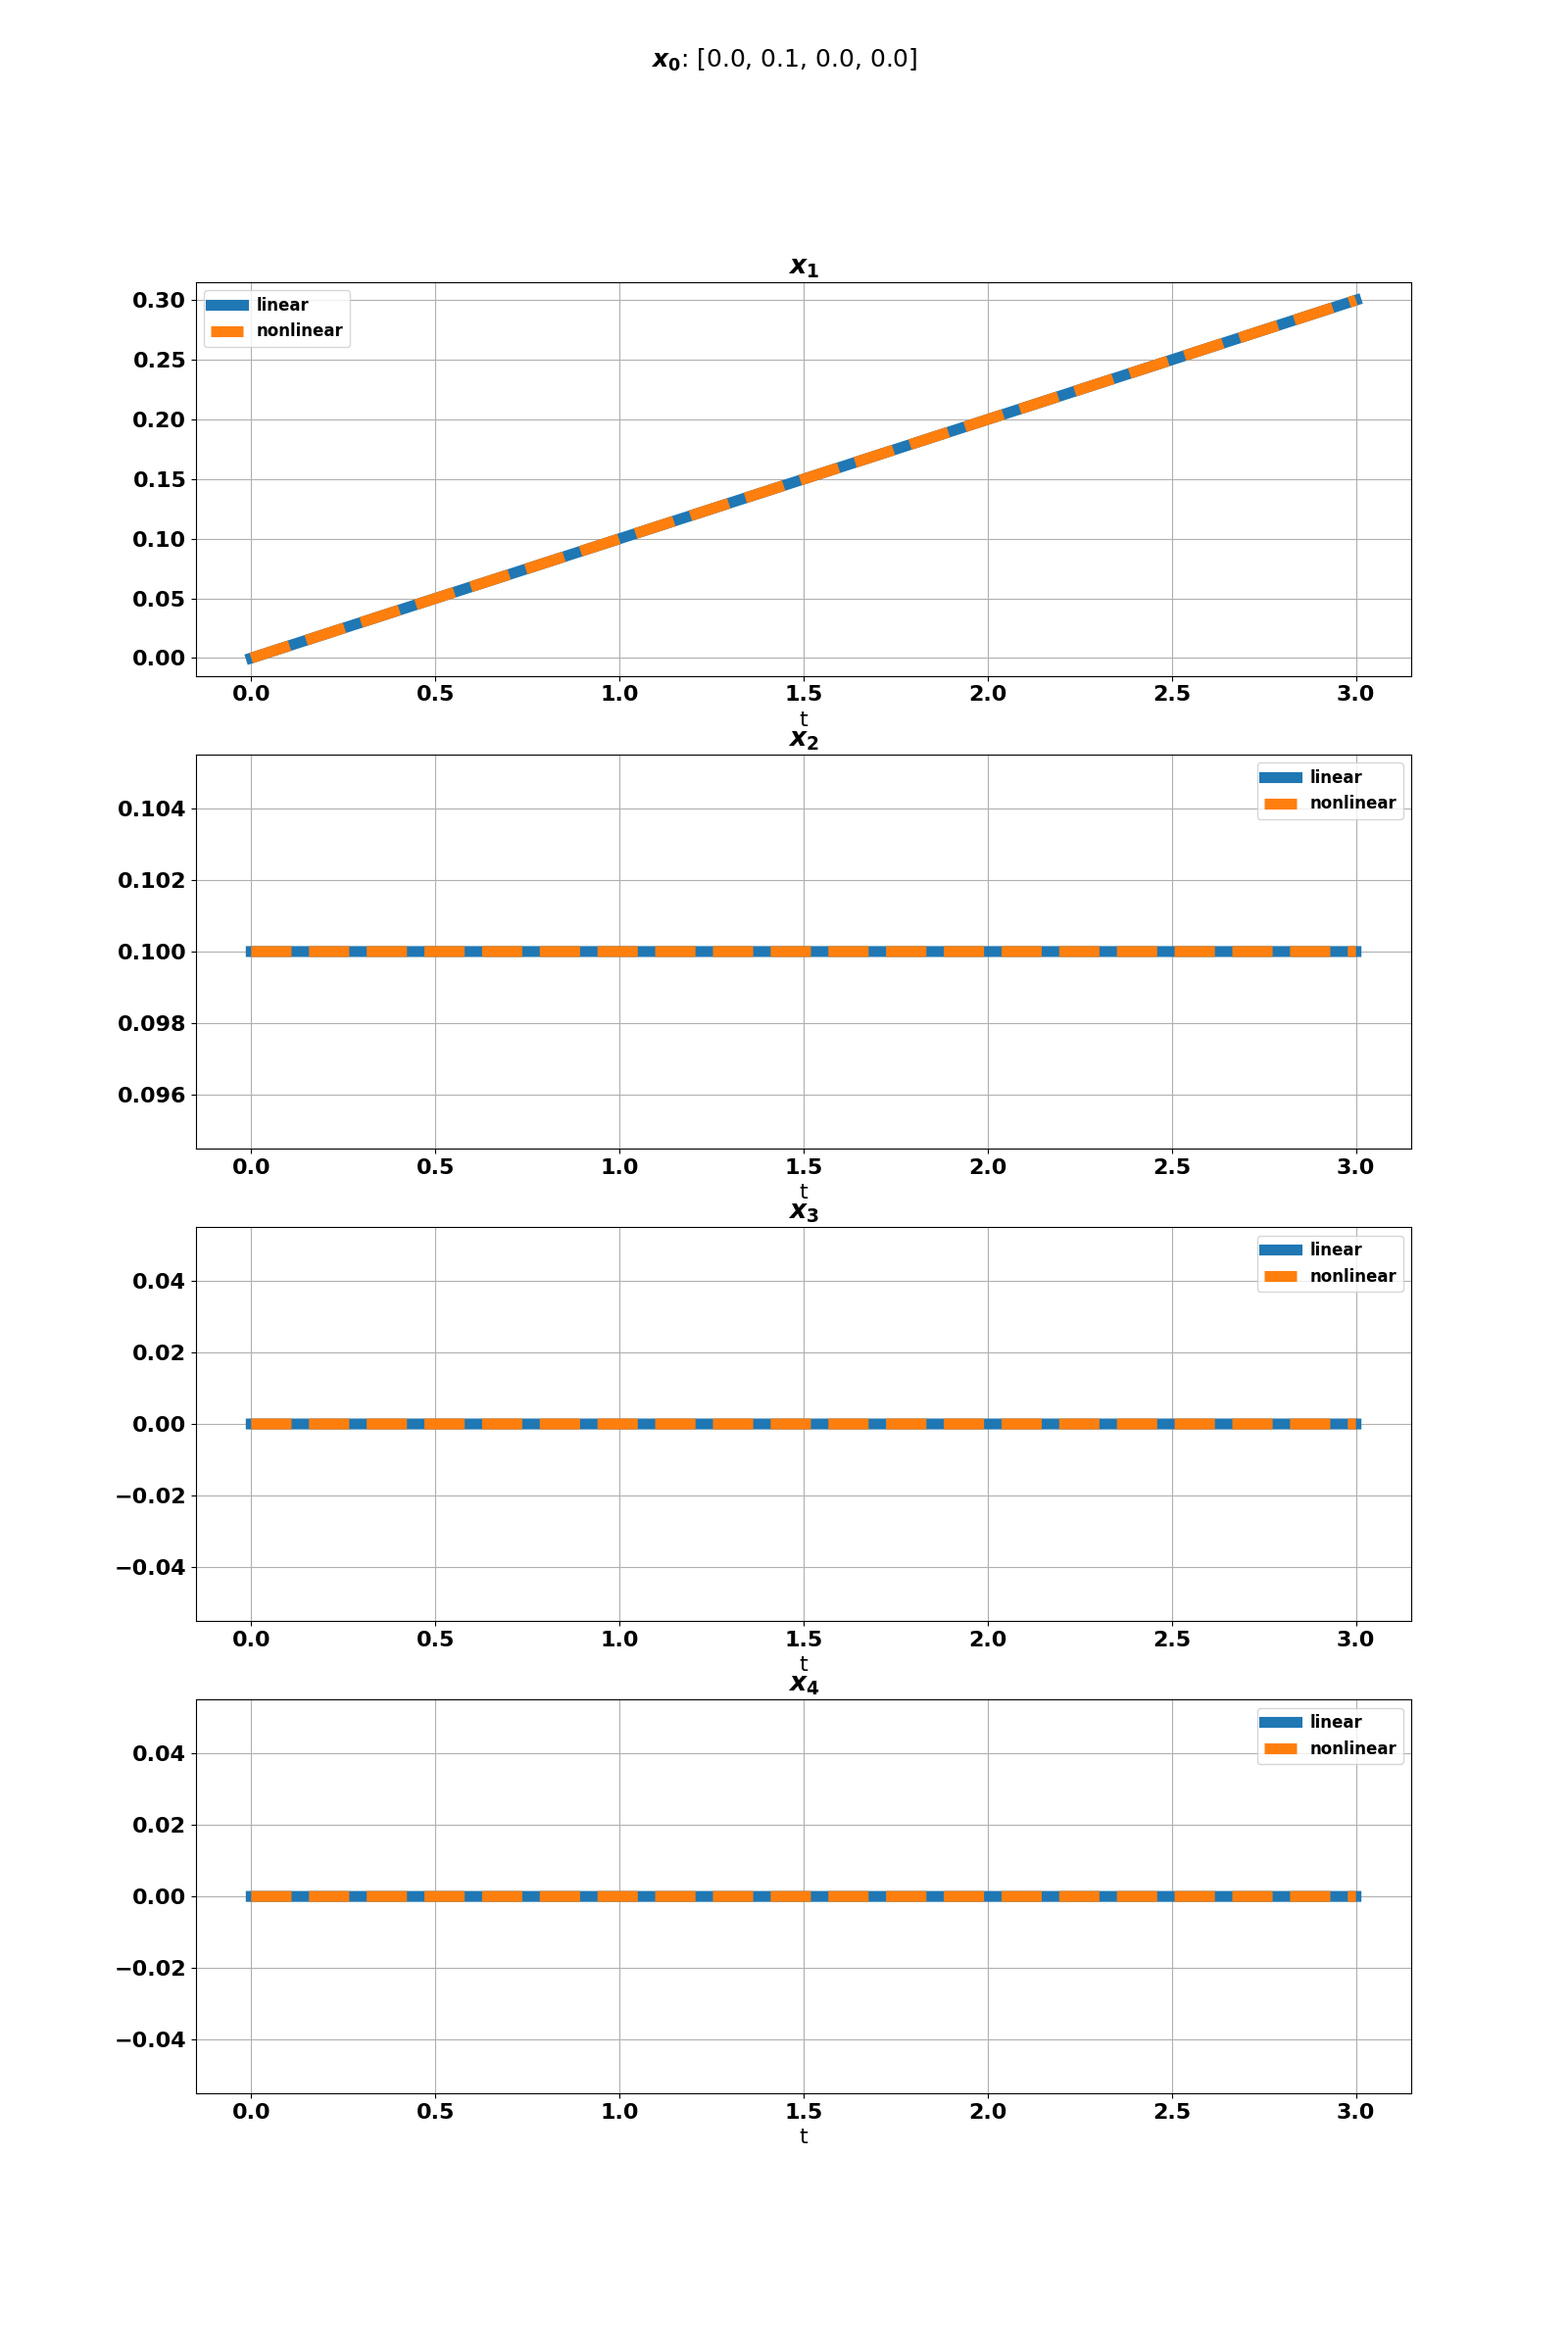
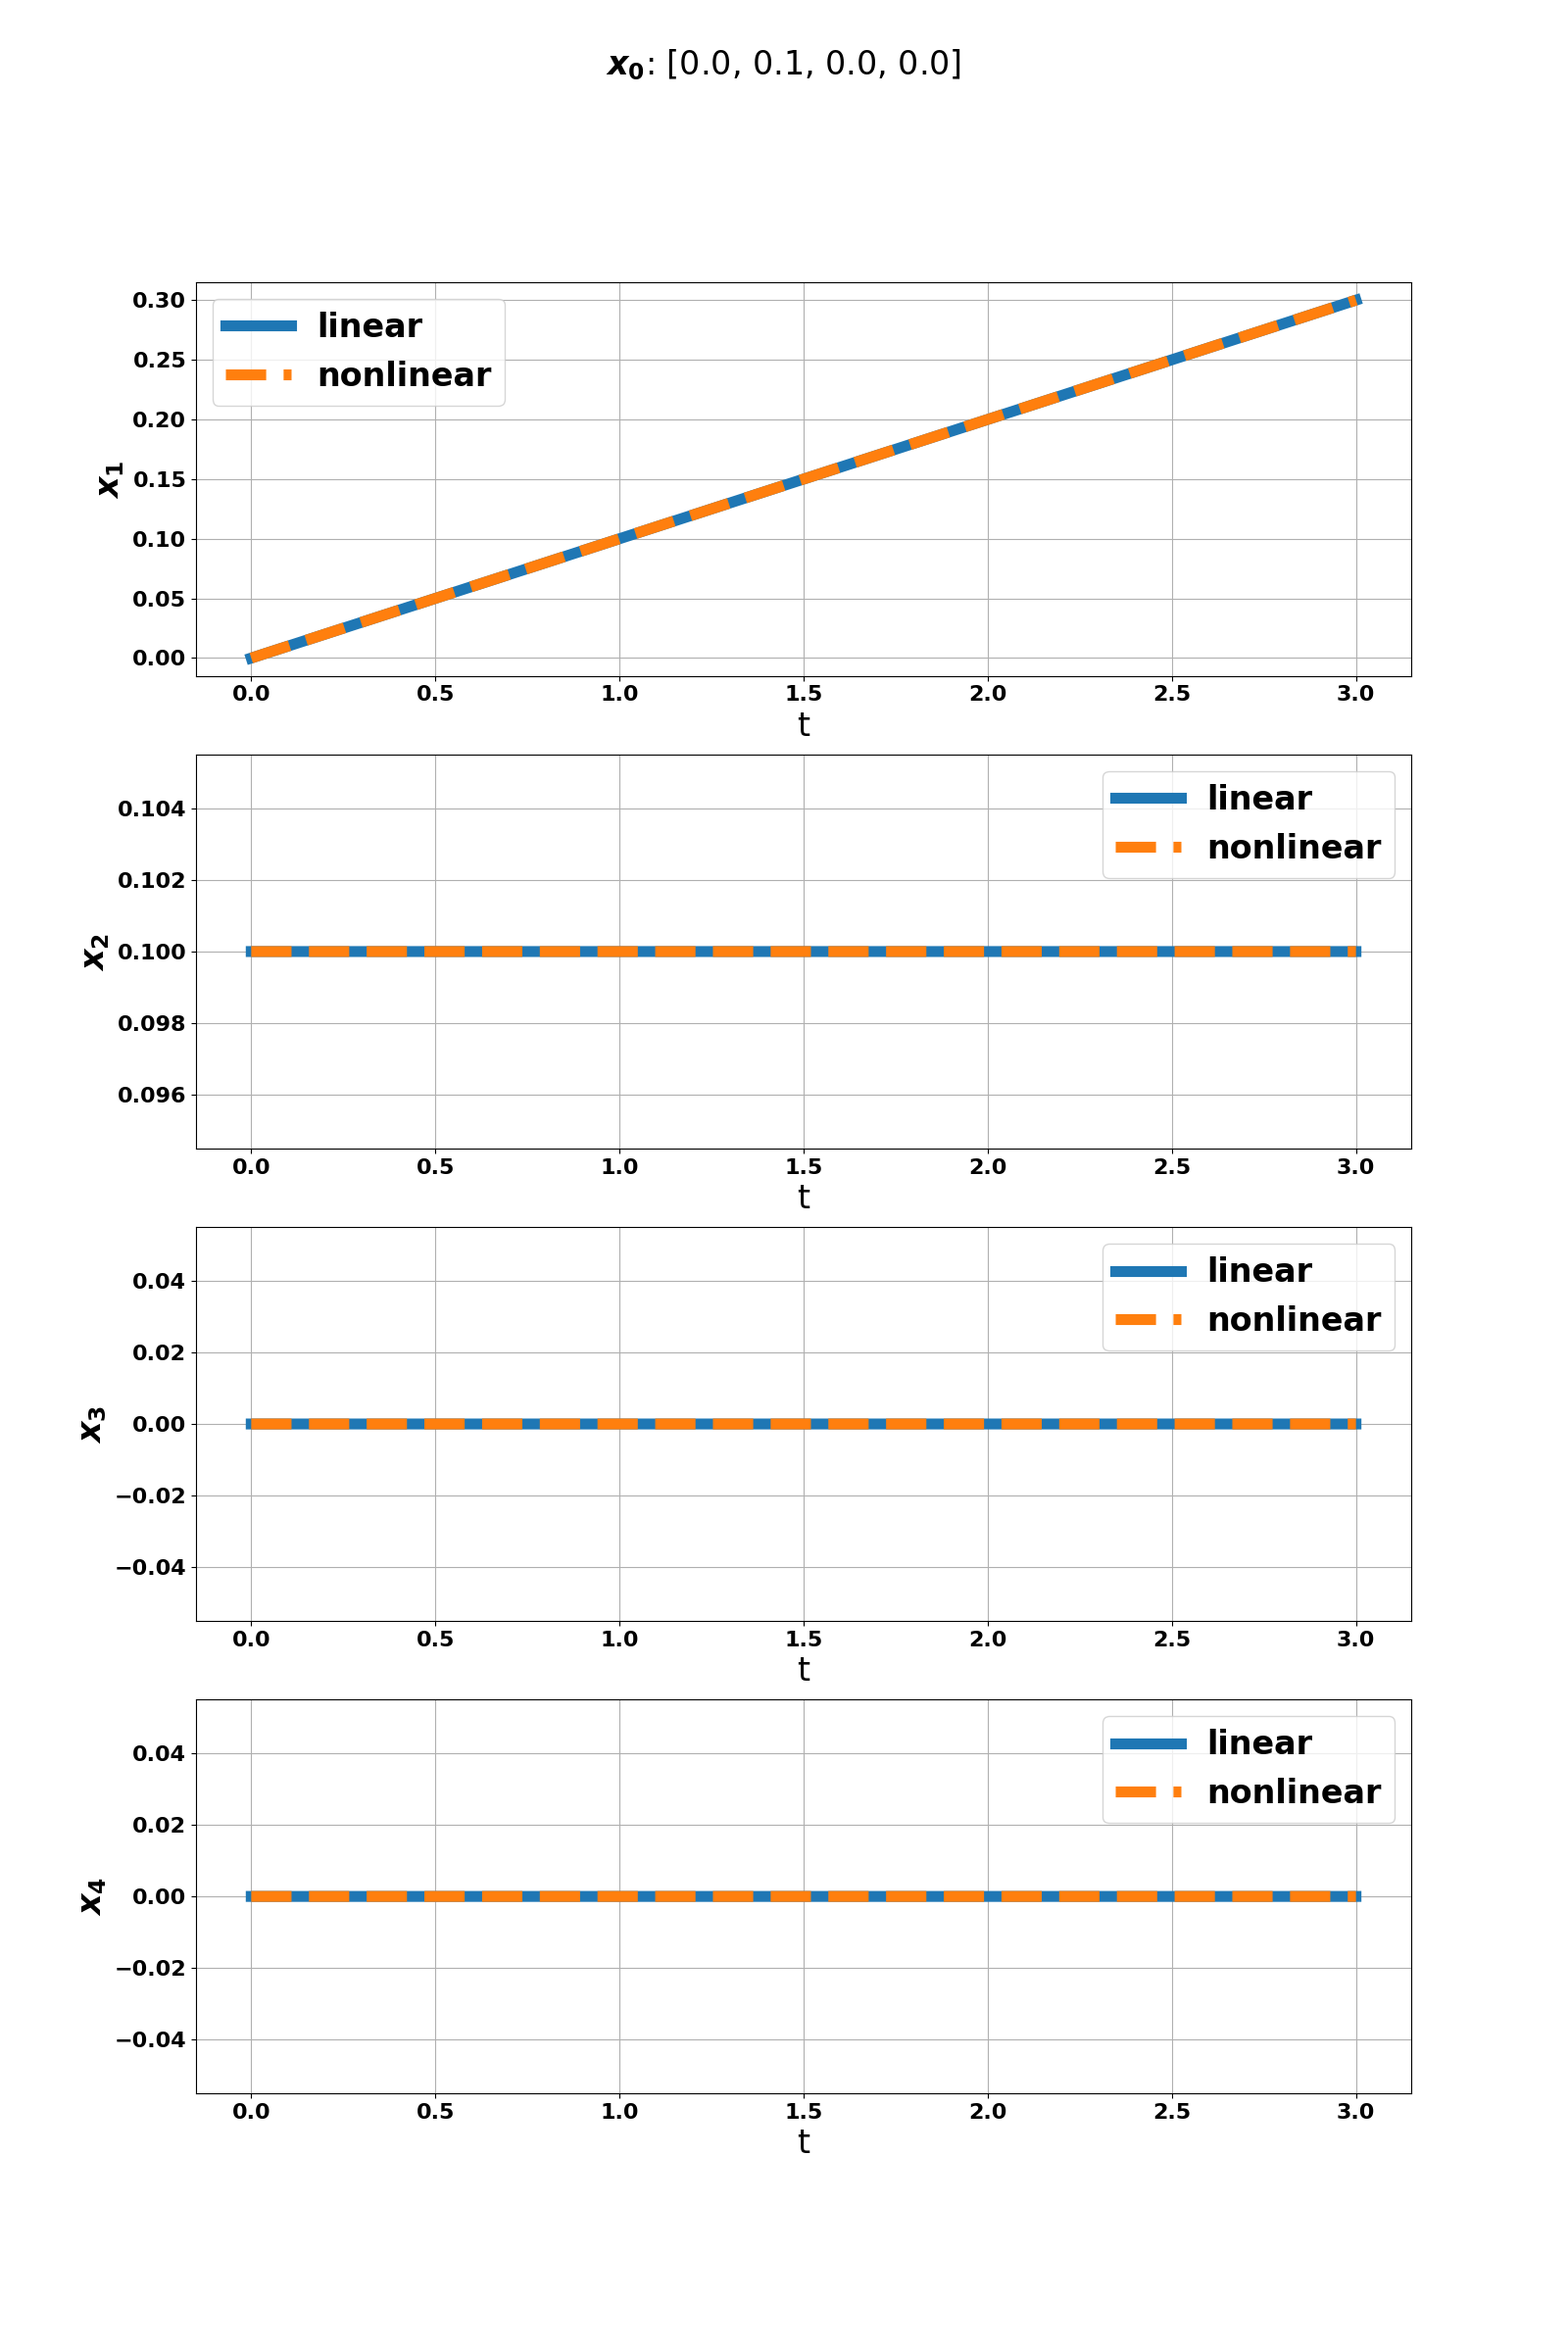
kurs

diff --git a/kurs/chapter2.py b/kurs/chapter2.py
@@ -86,13 +86,13 @@ def task2(A, B, C, D):
 def draw_linear_response(ss, x0, time):
     response = control.initial_response(ss, T=time, X0=x0)
     fig, ax = plt.subplots(4, figsize=(16, 24))
-    fig.suptitle(f"$x_0$: {x0}", fontsize=18)
+    fig.suptitle(f"$x_0$: {x0}", fontsize=24)
     for i in range(4):
-        ax[i].set_title(f"$x_{i+1}$")
         ax[i].plot(time, response.states[i], linewidth=8, label="linear")
-        ax[i].set_xlabel('t')
+        ax[i].set_ylabel(f"$x_{i + 1}$", fontsize=24)
+        ax[i].set_xlabel('t', fontsize=24)
         ax[i].grid()
-        ax[i].legend(fontsize=12)
+        ax[i].legend(fontsize=24)
 
     plt.savefig(f"chapter2_reports/task3_{'_'.join([str(x) for x in x0])}.png")
 
@@ -136,16 +136,16 @@ def draw_and_compare_nonlinear_response(ss_lin, ss_nonlin, x0, time):
     resp_nonlin = control.input_output_response(ss_nonlin, T=time, X0=x0, U=np.zeros((2, len(time))))
 
     fig, ax = plt.subplots(4, figsize=(16, 24))
-    fig.suptitle(f"$x_0$: {x0}", fontsize=18)
+    fig.suptitle(f"$x_0$: {x0}", fontsize=24)
 
     for i in range(4):
-        ax[i].set_title(f"$x_{i + 1}$")
         ax[i].plot(time, resp.states[i], label='linear', linewidth=8)
         ax[i].plot(time, resp_nonlin.states[i], '--', label='nonlinear', linewidth=8)
 
-        ax[i].set_xlabel('t')
+        ax[i].set_xlabel('t', fontsize=24)
+        ax[i].set_ylabel(f"$x_{i + 1}$", fontsize=24)
         ax[i].grid()
-        ax[i].legend(fontsize=12)
+        ax[i].legend(fontsize=24)
 
     plt.savefig(f"chapter2_reports/task4_{'_'.join([str(x) for x in x0])}.png")
 
@@ -183,7 +183,7 @@ if __name__ == "__main__":
     D = get_D()
 
     print_taks_1 = True
-    print_taks_2 = False
+    print_taks_2 = True
     print_taks_3 = True
     print_taks_4 = True
 
